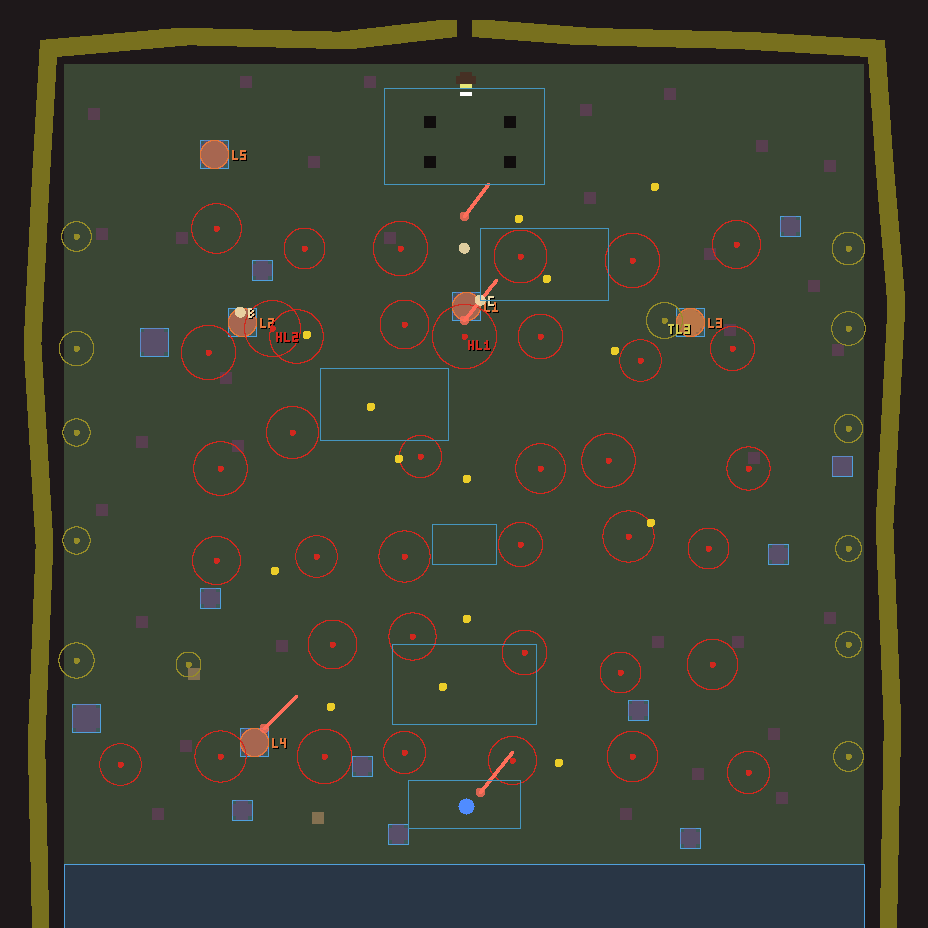
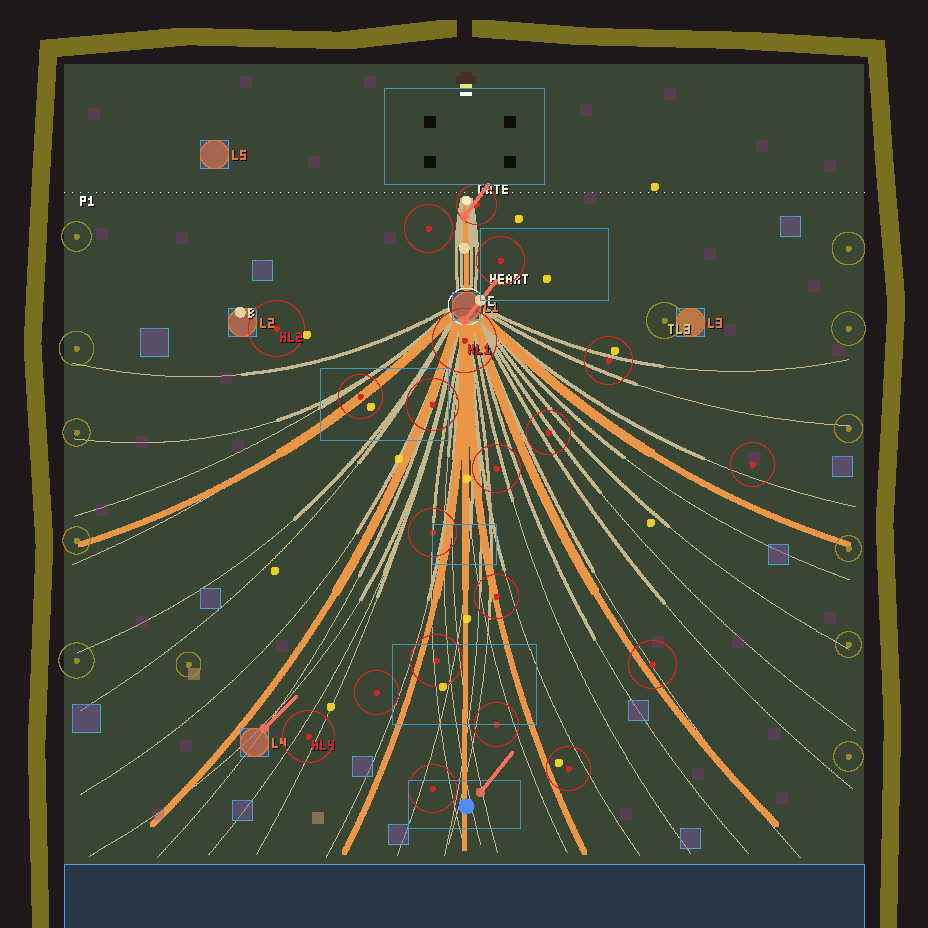
feat(unity-rm4): P1 첫 커밋 — P0 판정 조건 반영(빛 웅덩이 동선 재배치, 뿌리 흐름선·등줄기), 시선 쐐기 공통 규칙, P1 창
- 조건 1: 진홍 웅덩이 38→20, 주 동선(START→심장→보스문)과 랜드마크 접근로 중심. 동선 화면 2~3개 95%, 먼 들판은 어둡게. 독액 13 유지.
- 조건 2: 뿌리 흐름선 42줄(굵기 북쪽 증가)·낮은 등줄기 8(≤0.10u)·심장→보스문 줄기, 전 구간 60° 이내 수렴, 탑뷰 갱신.
- 시선 쐐기 h≤0.9+1.14D 채택: 막힘 섬 51개 D=0.2u, hMax=1.13u. 랜드마크 예외 철회. P1 창 y32~199(L5 제외).

diff --git a/docs/engine/UNITY_RM4_PLAN_20261028.md b/docs/engine/UNITY_RM4_PLAN_20261028.md
@@ -84,28 +84,49 @@
 - 2장 점액(붙잡는 점액)은 두지 않는다.
 - 독액 재질은 RM-1 `M_ToxicFlow`를 참조만 한다(고치지 않는다). 색은 아트 바이블 v2 §6을 따른다.
 
-## 7. 빛 웅덩이·빛줄기 (아트 바이블 v2 §9)
+## 7. 빛 웅덩이·빛줄기 (아트 바이블 v2 §9, P0 판정 조건 1 반영)
 
-- `Lights/Pools/Pool_Hell_<n>` 38개 + `Pool_Toxic_<n>` 13개.
-  - 배치: 26타일 지터 격자, 서로 10타일(400px) 이상.
-  - 한 화면(≈40×30타일)에 진홍 1~2 + 독액 0~2 = 2~4개다(L-1·L-2).
-  - 반경: 진홍 5~7타일(200~280u), 독액 3~4.5타일.
-  - 랜드마크 고정 웅덩이: HL1(L1 남쪽, 큰 반경·느린 숨쉬기), HL2(L2 동쪽), TL3(L3 서쪽 기슭).
-- 독액 웅덩이는 외곽 강 기슭과 늪 곁에만 둔다. 진홍은 안쪽에 둔다. 그래서 가장자리 화면마다 진홍과 독액이 서로 반대편에 있다.
-- 붉은 빛줄기 4줄기: START, L4, **L1 심장(대표)**, 보스문 앞마당. 뿌리 지붕 틈으로 들어오고, 태양 원반은 없다.
-- 웅덩이 사이 바닥은 L\*10 이하로 둔다(W7).
+- `Lights/Pools/Pool_Hell_<n>` **20개** + `Pool_Toxic_<n>` 13개(P1 창 y≥32 안). 진홍을 P0의 38개 격자에서 줄이고 동선 중심으로 다시 놓았다.
+  - **주 동선**(START → R1 → 대장간 → 심장 → 보스문 앞): x=100 중심선을 따라 ±8타일 지그재그로 16~17타일 간격. H1~H10 + 심장 앞 HL1(큰 반경 8타일, 느린 숨, 대표 컷).
+  - **랜드마크 접근로:** L2(HL2, H11), L3(H12, H13), L4(HL4, H14)에서 1~2개씩. 동·남동 먼 곳 H15~H17은 접근로 끝의 작은 불빛이다.
+  - 반경 진홍 5~8타일(200~320u), 독액 3~4.5타일. 서로 10타일(400px) 이상(위반 0).
+- 독액 13개는 외곽 띠·섬 쪽에 P0 그대로 둔다. 진홍은 안쪽, 독액은 가장자리라 서로 반대편에 있다.
+- 한 화면(40×30타일 창) 안 웅덩이 수를 4타일 간격으로 걸어 센 값:
 
-## 8. 카메라 LOOK-001 가림 — 1-4 특이점
+  | 창 중심 | 창 수 | 웅덩이 0 / 1 / 2 / 3 / 4+ |
+  |---|---|---|
+  | 동선(x85~115) | 244 | 0 / 14 / 151 / 79 / 0 |
+  | 먼 들판 | 1,167 | 376 / 522 / 233 / 36 / 0 |
 
-- 1-4는 사방이 열려 있다. 지도 안 덩어리 칸 **819칸 전부** 북쪽 16칸 안에 걷기 칸이 있다. 즉 모두 "플레이어와 카메라 사이"가 될 수 있다(RM-1 `SouthOfWalk` 규칙).
-- 남쪽 외곽 띠 y200~215는 START·남쪽 길 바로 앞이다.
-- START 근처 섬도 가림 후보다: (81~85,190~194), (72~76,173~177), (62~64,187~189).
-- 기본안: 지도 안 모든 덩어리와 남쪽 띠를 0.9u 이하로 둔다. 키 큰 실루엣은 서·동·북 지도 밖 띠에만 둔다.
-- **판정 요청 — 랜드마크 L1~L5만 시선 쐐기 높이:**
-  - 높이 상한 h ≤ 0.9u + 1.14·d. d는 섬 북쪽 걷기 칸에서 남쪽으로 잰 거리다. pitch .85에서 플레이어 발 시선이 1u마다 1.14u 오른다.
-  - 북쪽 면은 낮고 남쪽으로 높아지는 뿌리 둔덕이 된다. 45칸 섬이면 남단 최대 약 3.6u다.
-  - P1에서 꼭짓점마다 검사하고 캡슐 캡처로 확인한다.
-  - 승인되지 않으면 기본안(전부 0.9u)으로 간다.
+  동선 화면은 2~3개가 95%이고, 1개인 14창은 START·북쪽 끝 가장자리다. 먼 들판은 일부러 어둡게 비운다(W7).
+- 붉은 빛줄기 4줄기: START, L4, **L1 심장(대표)**, 보스문 앞마당(y≥32). 뿌리 지붕 틈에서 들어오고, 태양 원반은 없다.
+- 웅덩이 사이 바닥은 L*10 이하로 둔다(W7).
+
+## 7b. 뿌리 흐름선·등줄기 — 1-3과 구별 (P0 판정 조건 2)
+
+1-3도 열린 들판이라 "뿌리가 북쪽 심장으로 모인다"가 화면에서 읽혀야 한다.
+- **흐름선 42줄**(`plan.rootFlow.lines`, 바닥 데칼, 걷기 칸 위 메시 없음):
+  - 남쪽 가장자리 13줄, 서·동 가장자리 14줄, START에서 곧게 올라오는 3줄.
+  - 심장 둘레(반경 4.6타일)에서 끝난다. 굵기는 0.30~0.45에서 0.9~1.3타일로 **북쪽(끝)일수록 굵다**.
+- **등줄기 8줄**(`ridge:true`): 서·남서·남·남동·동 방향 7줄과 심장→보스문 앞 줄기 1줄.
+  - Terrain 높이 **0.10u 이하의 낮은 둔덕**이다. 충돌·덩어리가 아니고 시선 쐐기 이내다.
+  - 걷는 면은 0 근처라는 RM-1 규칙에서 0.10u(약 1/4칸)만 벗어난다. 둔덕은 걷기 칸 덮임 수치에 넣지 않고 따로 적는다. 이 예외를 맵 총괄이 승인해 주세요.
+- **심장 → 보스문 앞 줄기 5가닥:** (100.5, 56)에서 (100.5, 34)로 올라가며 한 점으로 모인다.
+- **수렴 지표**(P1 창 y≥32 안에서 모두 계산):
+  - 42줄 전부 끝이 심장 둘레 또는 보스문 앞 3타일 안이다.
+  - 구간별 진행 방향과 가장 가까운 끌개(심장, y<60이면 보스문 앞) 방향의 코사인 평균이 0.989다. 전 구간이 60° 이내다.
+- 1-3은 버섯 미로(막힘 군락이 길을 가른다)이고 1-4는 트인 바닥에서 **방향이 바닥의 뿌리 흐름으로만** 주어진다. 구별 포인트는 이 한 가지다.
+
+## 8. 카메라 LOOK-001 가림 — 시선 쐐기 공통 규칙(맵 총괄 채택)
+
+- 규칙: **h ≤ 0.9 + tan(0.85) × D**, tan(0.85) ≈ 1.14. D는 덩어리 북쪽 끝에서 북쪽 가장 가까운 걷기 칸 중심까지의 거리(u, 1칸=0.4u). 모든 덩어리에 같은 식을 쓴다.
+- 1-4 계산(`plan.masses[].D_u / hMax_u`): 막힘 섬 51개 전부 북쪽 바로 옆이 걷기 칸이다. D = 0.5칸 = 0.2u이고 hMax = **1.13u**다.
+  - 랜드마크 L1~L5(L5는 P1 창 밖)도 같은 상한이다. 1-4의 존재감은 높이가 아니라 풋프린트·실루엣 폭·뿌리 둔덕·지도 밖 띠·전경 카드로 만든다.
+  - 지도 안 덩어리 설계 높이: 매듭 0.5~0.9u, 큰 매듭·랜드마크 0.9~1.1u(1.13u 이하).
+  - 남쪽 외곽 띠 y200~215는 바로 북쪽이 걷기 칸이므로 0.9u 이하다.
+  - 높은 실루엣은 서·동·북 지도 밖 띠에만 둔다.
+- 검증: 0.9u를 넘는 덩어리마다 그 북쪽의 가장 가까운 걷기 칸에 캡슐(1.6u)을 세워 같은 카메라로 찍는다. 캡슐의 머리와 몸통이 보여야 한다. 덩어리 목록·h·D·통과 여부를 json으로 남긴다. 가림 페이드는 쓰지 않는다.
+- 판정 요청이던 "랜드마크 예외 쐐기 높이(최대 3.6u)"는 철회한다. 위 규칙이 이를 대체한다.
 
 ## 9. 위키드 W1~W8 적용
 
@@ -122,16 +143,25 @@
 
 ## 10. 탑뷰 스케치·데이터
 
-- 스케치: `tools/rm4/ch1_4_plan_topview.png` (사본: `I:/EXODUSER-Storage/rm4/`). 928×928px, 4px/타일, 지도 밖 16타일 포함.
+- 스케치: `tools/rm4/ch1_4_plan_topview.png` (사본 `I:/EXODUSER-Storage/rm4/`). 928×928px, 4px/타일, 지도 밖 16타일 포함. P1 창 북쪽 경계 y32는 흰 점선이다.
 - 색 범례:
   - 초록: 걷기. 검정: 타일 벽. 갈색: 충돌물 막힘. 짙은 회색: 지도 밖.
-  - 보라: 뿌리 매듭. 주황: 랜드마크.
-  - 황토 띠: 독성 강. 황토 칸: 독액. 빨강 원: 진홍 웅덩이. 노랑 원: 독액 웅덩이.
+  - 보라: 뿌리 매듭. 주황 원: 랜드마크.
+  - **뼈색 선: 뿌리 흐름선. 굵은 주황 선: 등줄기.** 심장 흰 원(HEART)과 보스문 앞(GATE)으로 모인다.
+  - 황토 띠: 독성 강. 황토 칸: 독액. 빨강 원: 진홍 웅덩이. 노란 원: 독액 웅덩이.
   - 분홍 선: 빛줄기. 하늘 상자: 가림 구역과 웹 방 사각형. 노랑 점: 소환굴. 파랑: START. 흰색: EXIT.
 - 데이터: `Data/ch1_4_plan.json`(생성기 `tools/rm4/plan.mjs`, 시드 1104, 결정적). P1 빌더 입력이다.
 
-## 11. 판정 요청 정리
+## 11. 판정 기록 (맵 총괄, 2026-10-28)
 
-1. P1 범위 x0~199 × y32~199 + 바깥 띠(§4).
-2. 랜드마크 시선 쐐기 높이 예외(§8). 미승인이면 전부 0.9u.
-3. 보스방 x80~119 × y0~29·게이트는 비움(P1 지형은 y32부터). 보스방 바깥 경계 연출은 보스전 총괄과 맞출 일로 남긴다.
+P0 dc04bb7cc PASS. 승인: ① P1 범위 x0~199 × y32~199 + 바깥 띠 16칸(보스방 y<32 제외) ② 시선 쐐기를 공통 규칙으로 채택(§8) ③ 보스방 x80~119 × y0~29와 게이트 비움(경계 연출은 보스전 총괄과 맞춤).
+조건 2건은 P1 첫 커밋에서 처리했다: 조건 1 = §7(진홍 38 → 20, 동선 중심), 조건 2 = §7b(뿌리 흐름선·등줄기).
+- L5(34~40 × 19~25)와 y<32 북쪽 필드는 이번 슬라이스 밖이다. 이 구역을 슬라이스에 넣을 때 다시 다룬다.
+- P1 창 북쪽 경계 y32의 걷기 칸이 잘려 보이므로 FOG-LOW로 사라지게 처리한다(RM-1이 창 가장자리를 처리한 방식과 같다).
+
+## 12. P1 빌더 개요 (Unity 실행 순번은 유니티 총괄이 정한다: RM-3 → RM-2 → RM-4)
+
+- 씬 `Remodel/CH1_4/RM4_Slice.unity`, 빌더 `unity/Assets/Exoduser/Editor/Rm4SliceBuilder.cs`(멱등 `Run`·`Capture`·`Fps`).
+- RM-1 파일은 읽기만 한다. 필요한 코드(LumpMesh 등)는 RM-4 폴더로 복사해 쓴다.
+- 입력: `Data/ch1_4_walk.json`(걷기), `ch1_4_plan.json`(덩어리·강·웅덩이·흐름선·빛줄기).
+- 검증 수치 5종: 걷기 칸 덮임 0(둔덕은 따로 기재) / NavMesh 차이 / 보이지 않는 벽 0(섬 51개 전부 덮임) / 시선 쐐기 캡슐 캡처 / Hero 레이어 0.
